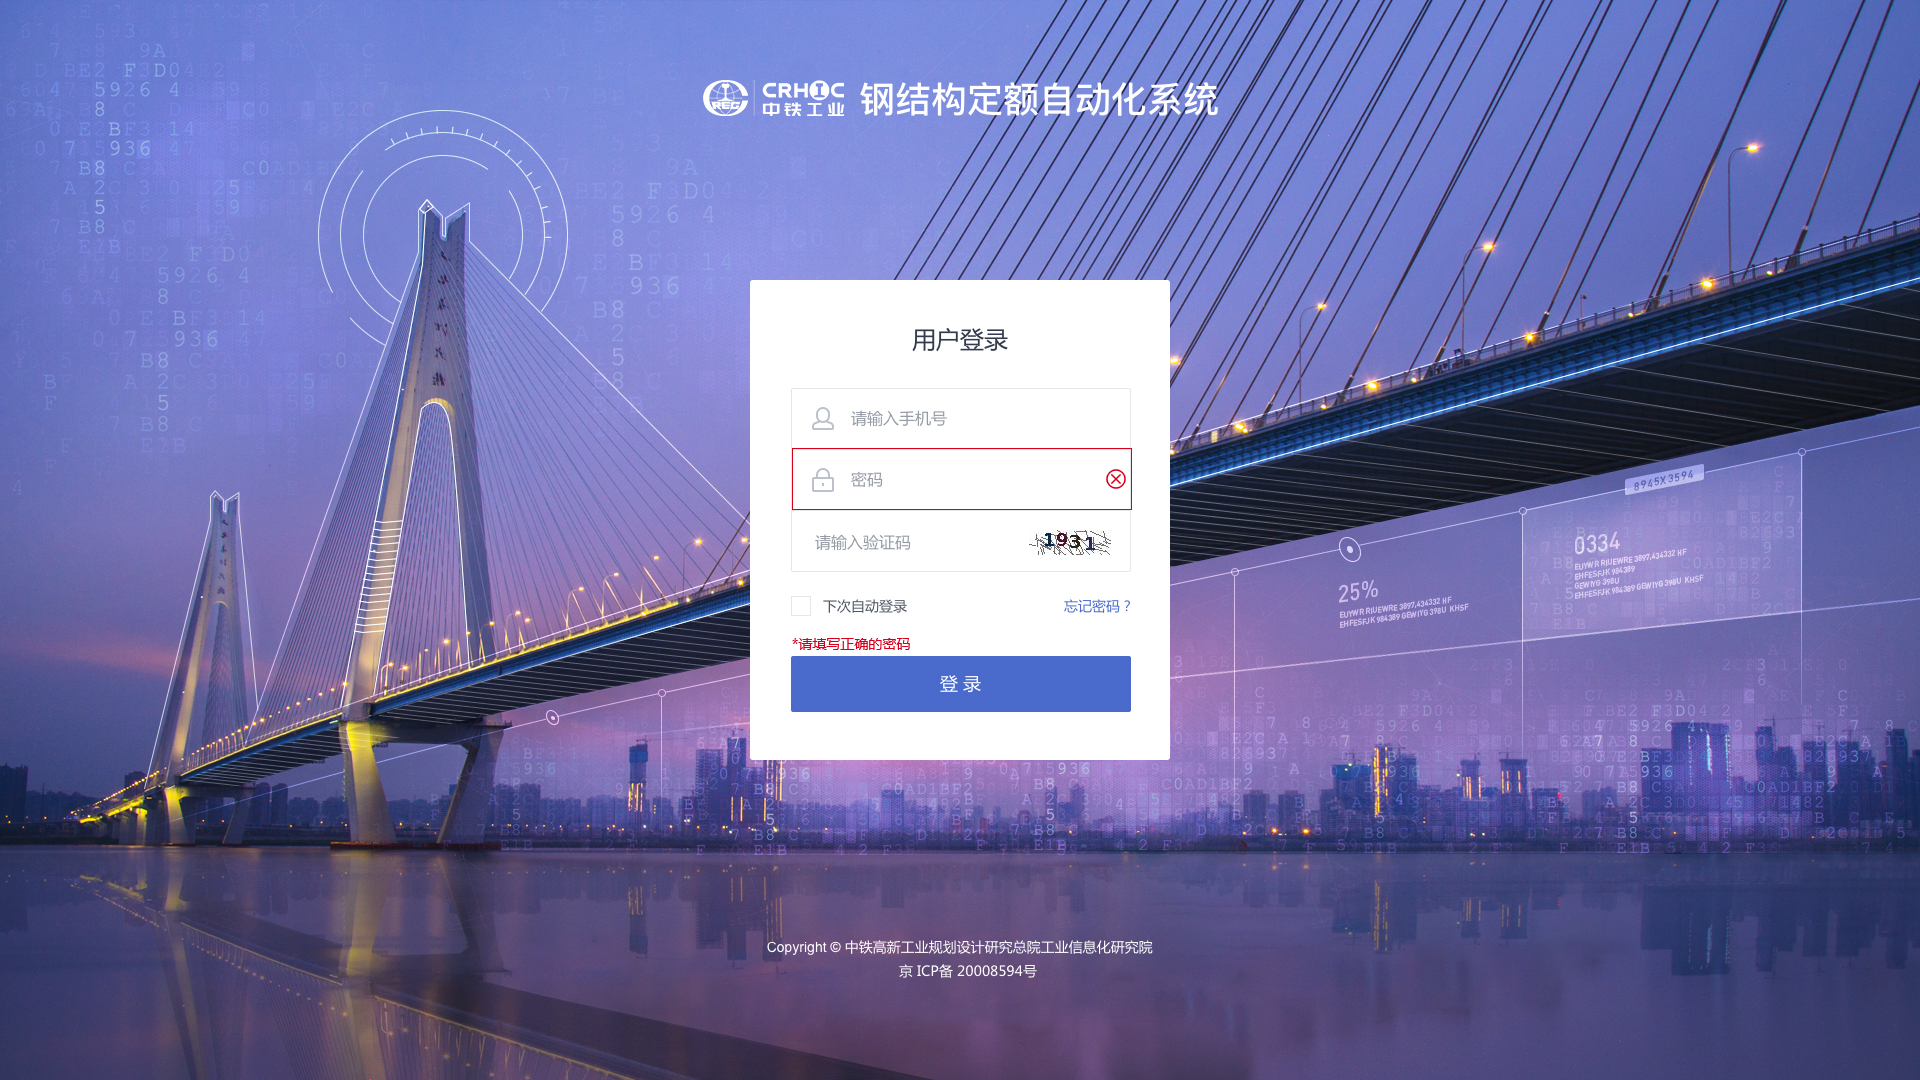
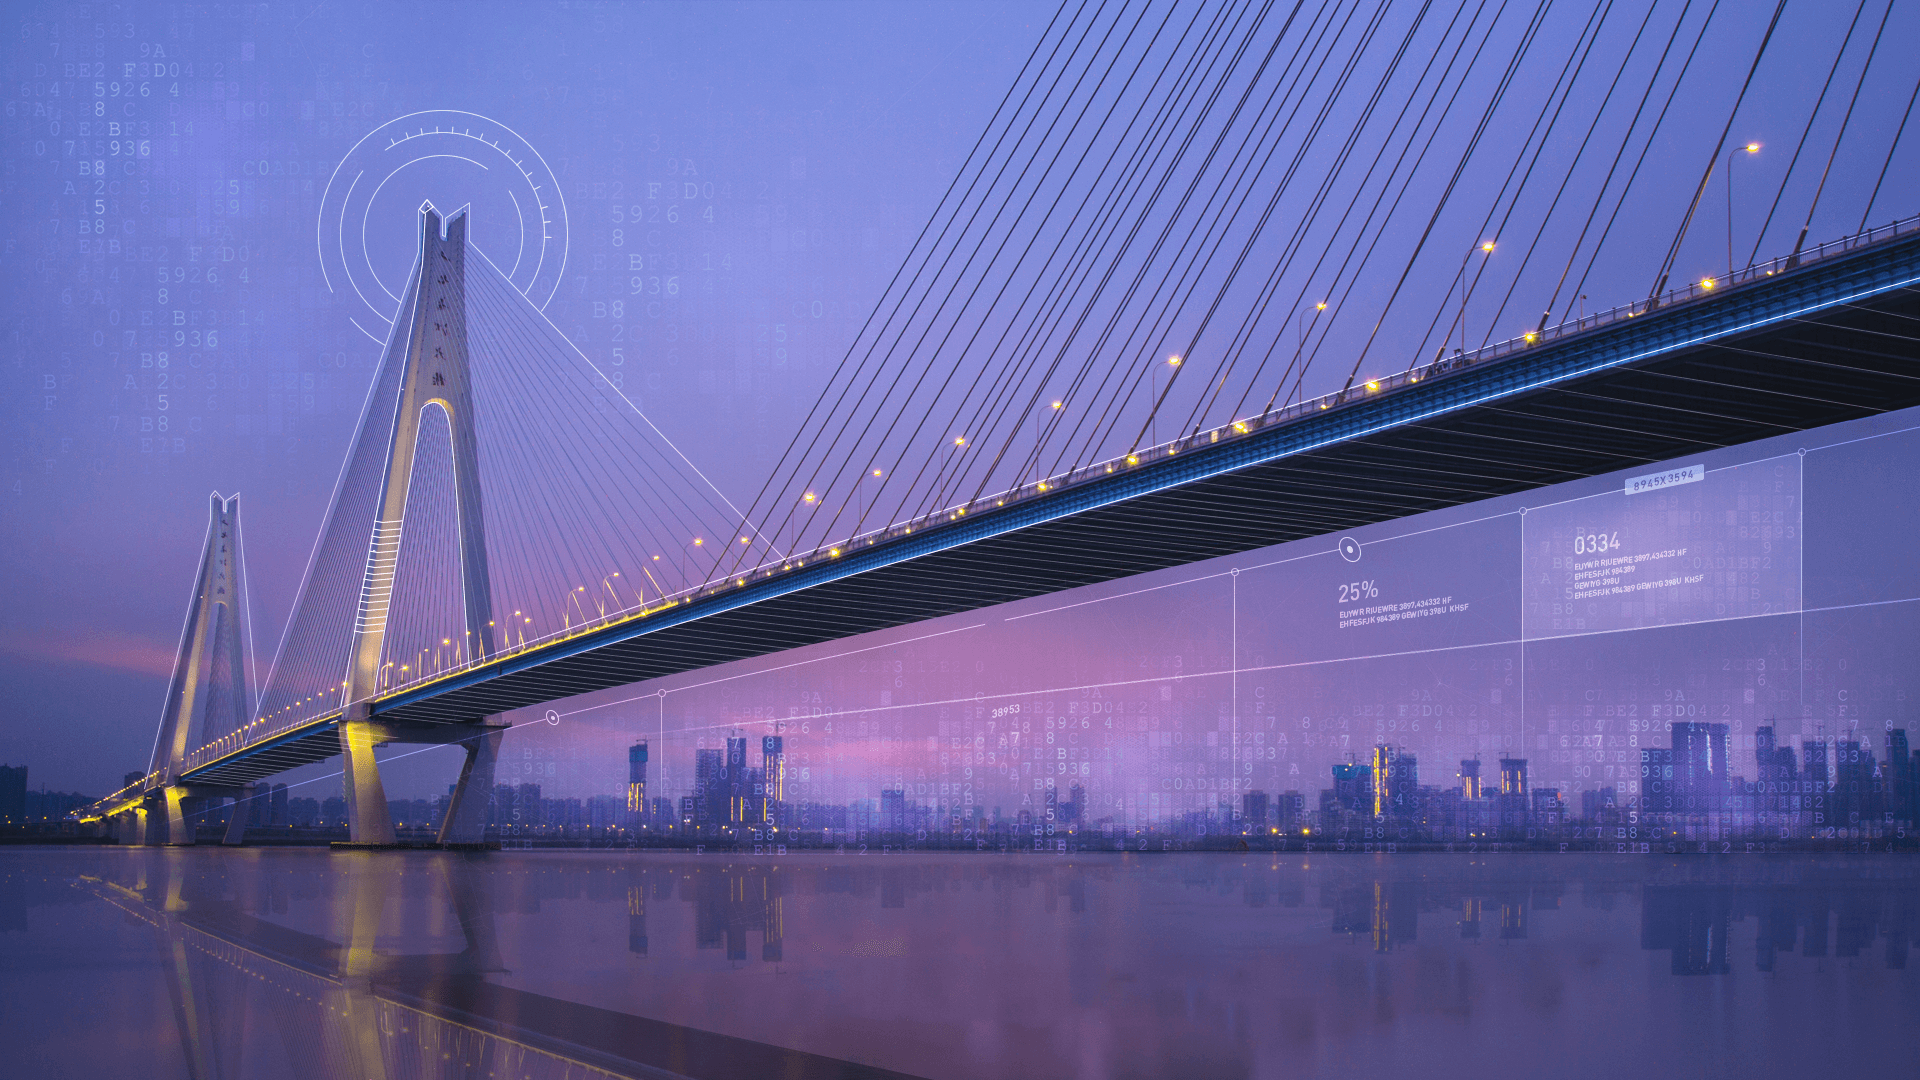
替换登录图，加入手工增加焊缝，编辑焊缝加入必须验证。

Changed region(s): [[0.375, 0.2444, 0.625, 0.7028], [0.375, 0.0611, 0.625, 0.1222], [0.4062, 0.8556, 0.5938, 0.9167]]

diff --git a/UI/Innocellence.Web/Scripts/util.cad.js b/UI/Innocellence.Web/Scripts/util.cad.js
@@ -51,14 +51,14 @@ function InitMxDrawX() {
 }
 function BrownerMode() {
     var isShow = false;
-    isBrowner = !isBrowner;
-    mxOcx.BrowseMode = isBrowner;
-    mxOcx.ShowMenuBar = !isBrowner;
-    mxOcx.ShowPropertyWindow = !isBrowner;
+    //isBrowner = !isBrowner;
+    //mxOcx.BrowseMode = isBrowner;
+    //mxOcx.ShowMenuBar = !isBrowner;
+    //mxOcx.ShowPropertyWindow = !isBrowner;
     //隐藏工具条
-    mxOcx.ShowToolBar("常用工具", isShow);
+    //mxOcx.ShowToolBar("常用工具", isShow);
     mxOcx.ShowToolBar("绘图工具", isShow);
-    mxOcx.ShowToolBar("编辑工具", isShow);
+    //mxOcx.ShowToolBar("编辑工具", isShow);
     mxOcx.ShowToolBar("特性", isShow);
     mxOcx.ShowToolBar("ET工具", isShow);
     //隐藏菜单栏
@@ -206,7 +206,12 @@ function DrawCircleOfArrow(m_handle) {
 
     mxOcx.DrawColor = 255;
     lastCircleHandle = mxOcx.DrawCircle(pt1.x, pt1.y, 10);
-
+    var l1 = Math.pow((polyline.GetPointAt(0).x - polyline.GetPointAt(1).x), 2);
+    var l2 = Math.pow((polyline.GetPointAt(0).y - polyline.GetPointAt(1).y), 2);
+    var mtempL = Math.sqrt((l1 + l2));
+    var qt = 16 * mtempL;
+    //定位视图位置
+    mxOcx.ZoomWindow(pt1.x - qt, pt1.y - qt, pt1.x + qt, pt1.y + qt);
     //更新视区显示
     mxOcx.UpdateDisplay();
 }
@@ -2898,6 +2903,7 @@ function ChangeWeldColorbyHandle(myWeldArray, myColorID) {
 
 //角焊缝
 function JiaoWeldAdd() {
+    console.log("手动添加焊缝");
     // 创建一个与用户交互取点的对象。
     var getPt = mxOcx.NewComObject("IMxDrawUiPrPoint");
     getPt.message = "输入标注插入基点";
@@ -2932,6 +2938,10 @@ function JiaoWeldAdd() {
     //}
     var ent = ret.AtObject(0);
     var hd = ent.handle;
+    //绘制完成后保存焊缝到数据
+    var weldData = [];    
+    weldData.push({ WeldType: 'ManJiaoH', HandleID: hd });    
+    saveWeldData(weldData);
     return hd;
 }
 // 拖放动态绘制函数。

diff --git a/UI/Innocellence.Web/Controllers/WeldCategoryController.cs b/UI/Innocellence.Web/Controllers/WeldCategoryController.cs
@@ -161,6 +161,8 @@ namespace Innocellence.FaultSearch.Controllers
                     return "13-单面-角焊缝";
                 case "Y_SMJiaoH":
                     return "14-双面角焊缝";
+                case "ManJiaoH":
+                    return "角焊缝";
                 default:
                     return "其他";
             }
